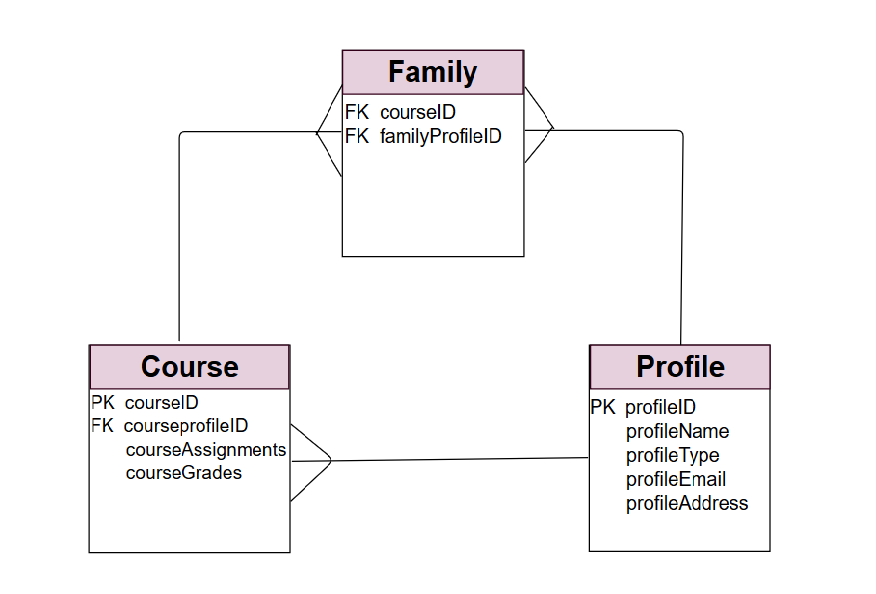
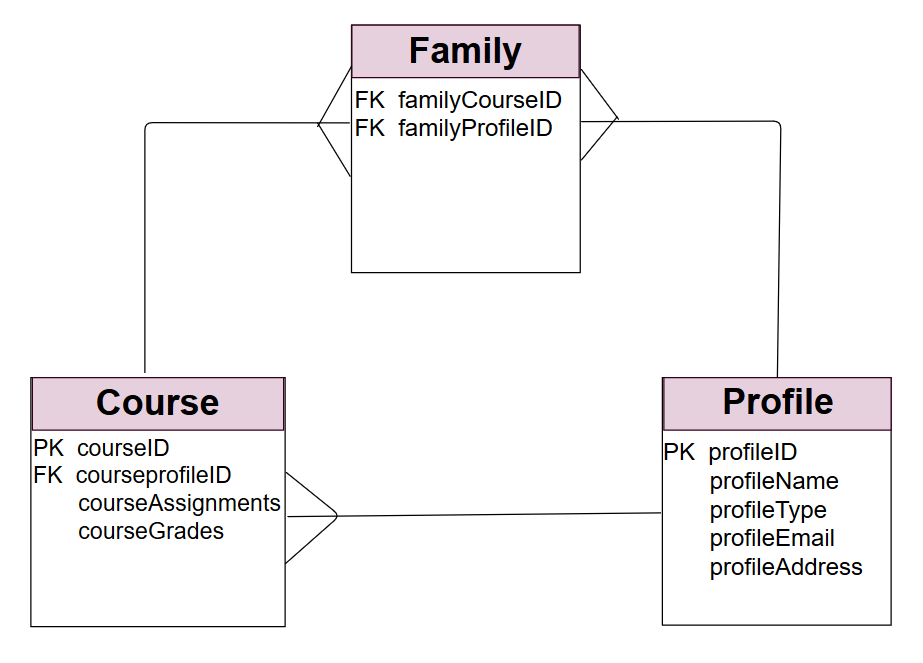
changed image erd.png

Changed region(s): [[0.0308, 0.0303, 0.9863, 0.9697], [0.8322, 0.3333, 0.863, 0.4242], [0.8322, 0.2424, 0.863, 0.303]]

diff --git a/epic/conceptual-model.html b/epic/conceptual-model.html
@@ -27,7 +27,7 @@
 			<br>
 			<div>
 				<p><em>Family</em></p>
-				<p>ProfileID (foreign key)</p>
+				<p>familyProfileID (foreign key)</p>
 				<p>familyCourseID (foreign key)</p>
 			</div>
 			</div>
